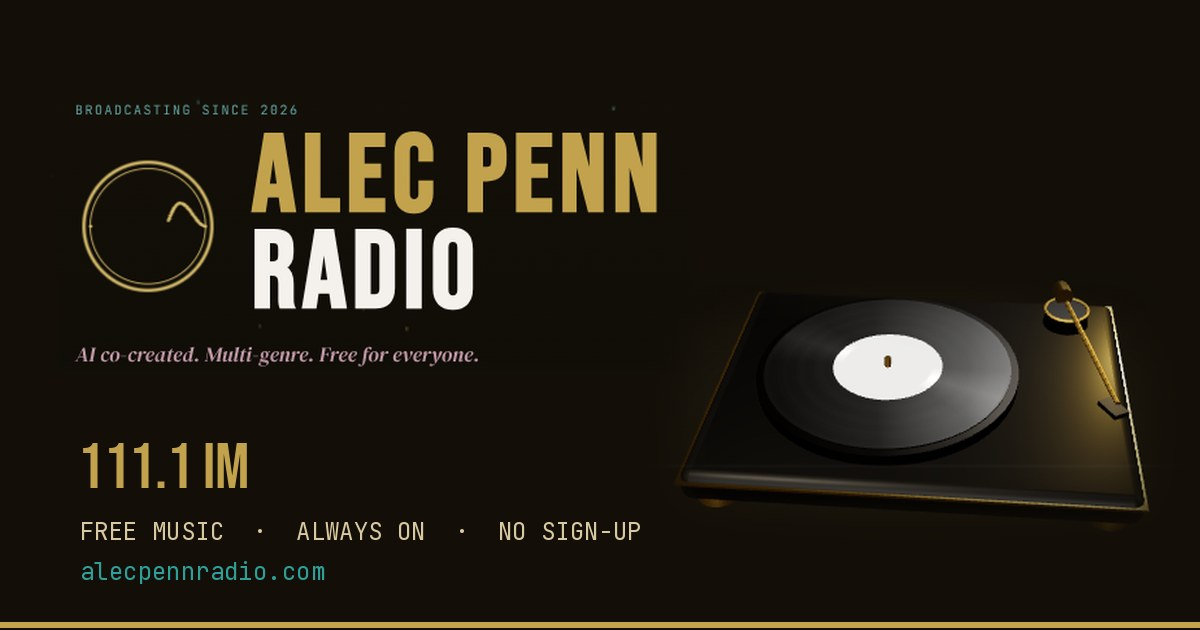
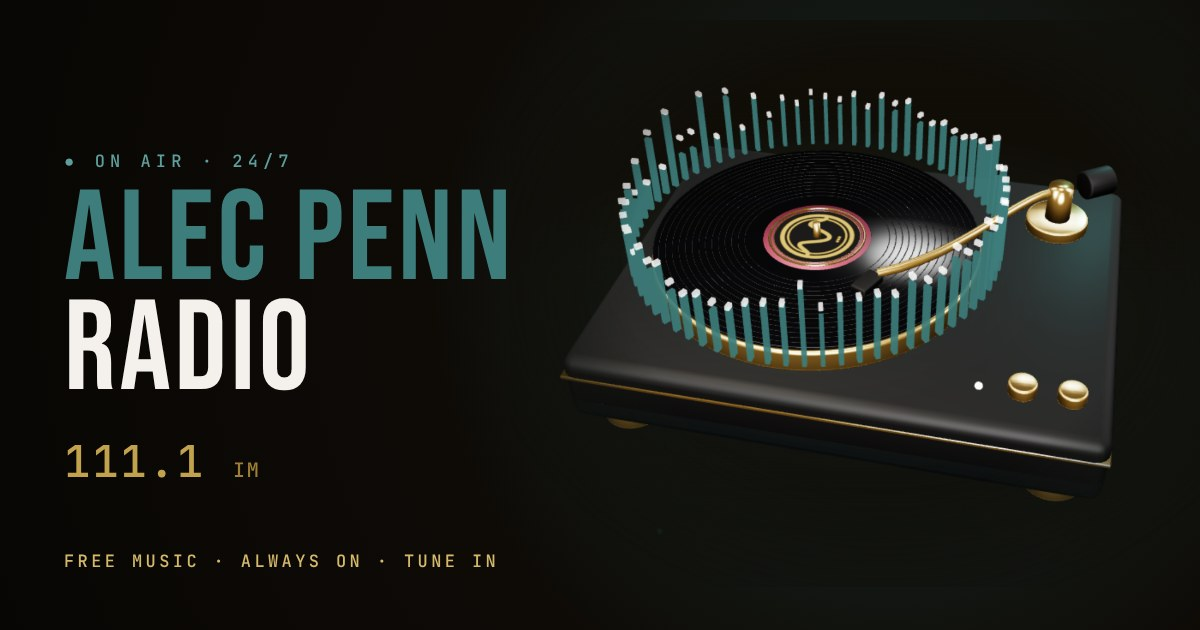
Link previews: deck with visualizer ring for APR, golden-hour pillow nest for /mushy
Claude-Session: https://claude.ai/code/session_01NGa3Y6dosH6haaz4zNW7Nn

diff --git a/public/mushy.html b/public/mushy.html
@@ -7,6 +7,16 @@
 <meta name="description" content="A private sunset listening experience. Fluffy pillows, rainbow softness, open sky, shared headphones, great music.">
 <meta property="og:title" content="Mushy Dimensions">
 <meta property="og:description" content="A private sunset listening experience. Pillows. Open sky. Shared headphones.">
+<meta property="og:type" content="website">
+<meta property="og:url" content="https://alecpennradio.com/mushy">
+<meta property="og:image" content="https://alecpennradio.com/mushy-share.jpg">
+<meta property="og:image:width" content="1200">
+<meta property="og:image:height" content="630">
+<meta property="og:image:alt" content="A ring of fluffy pillows and shared headphones on rainbow blankets, on a hillside at golden hour">
+<meta name="twitter:card" content="summary_large_image">
+<meta name="twitter:title" content="Mushy Dimensions">
+<meta name="twitter:description" content="A private sunset listening experience. Pillows. Open sky. Shared headphones.">
+<meta name="twitter:image" content="https://alecpennradio.com/mushy-share.jpg">
 <link rel="preconnect" href="https://fonts.googleapis.com"><link rel="preconnect" href="https://fonts.gstatic.com" crossorigin>
 <link href="https://fonts.googleapis.com/css2?family=Fraunces:ital,opsz,wght@0,9..144,300;0,9..144,600;1,9..144,300&family=Nunito:wght@400;600&display=swap" rel="stylesheet">
 <style>

diff --git a/index.html b/index.html
@@ -9,14 +9,14 @@
     <meta property="og:type" content="website" />
     <meta property="og:url" content="https://alecpennradio.com/" />
     <meta property="og:site_name" content="Alec Penn Radio" />
-    <meta property="og:image" content="https://alecpennradio.com/share.jpg" />
+    <meta property="og:image" content="https://alecpennradio.com/share.jpg?v=2" />
     <meta property="og:image:width" content="1200" />
     <meta property="og:image:height" content="630" />
-    <meta property="og:image:alt" content="Alec Penn Radio, 111.1 IM: free music, always on" />
+    <meta property="og:image:alt" content="Alec Penn Radio, 111.1 IM: a gold-and-black record player with a glowing visualizer ring. Free music, always on." />
     <meta name="twitter:card" content="summary_large_image" />
     <meta name="twitter:title" content="Alec Penn Radio" />
     <meta name="twitter:description" content="AI co-created. Multi-genre. Free for everyone. Tune in." />
-    <meta name="twitter:image" content="https://alecpennradio.com/share.jpg" />
+    <meta name="twitter:image" content="https://alecpennradio.com/share.jpg?v=2" />
     <meta name="theme-color" content="#0A0806" />
     <title>Alec Penn Radio — 111.1 IM</title>
     <link rel="icon" type="image/svg+xml" href="/favicon.svg" />
